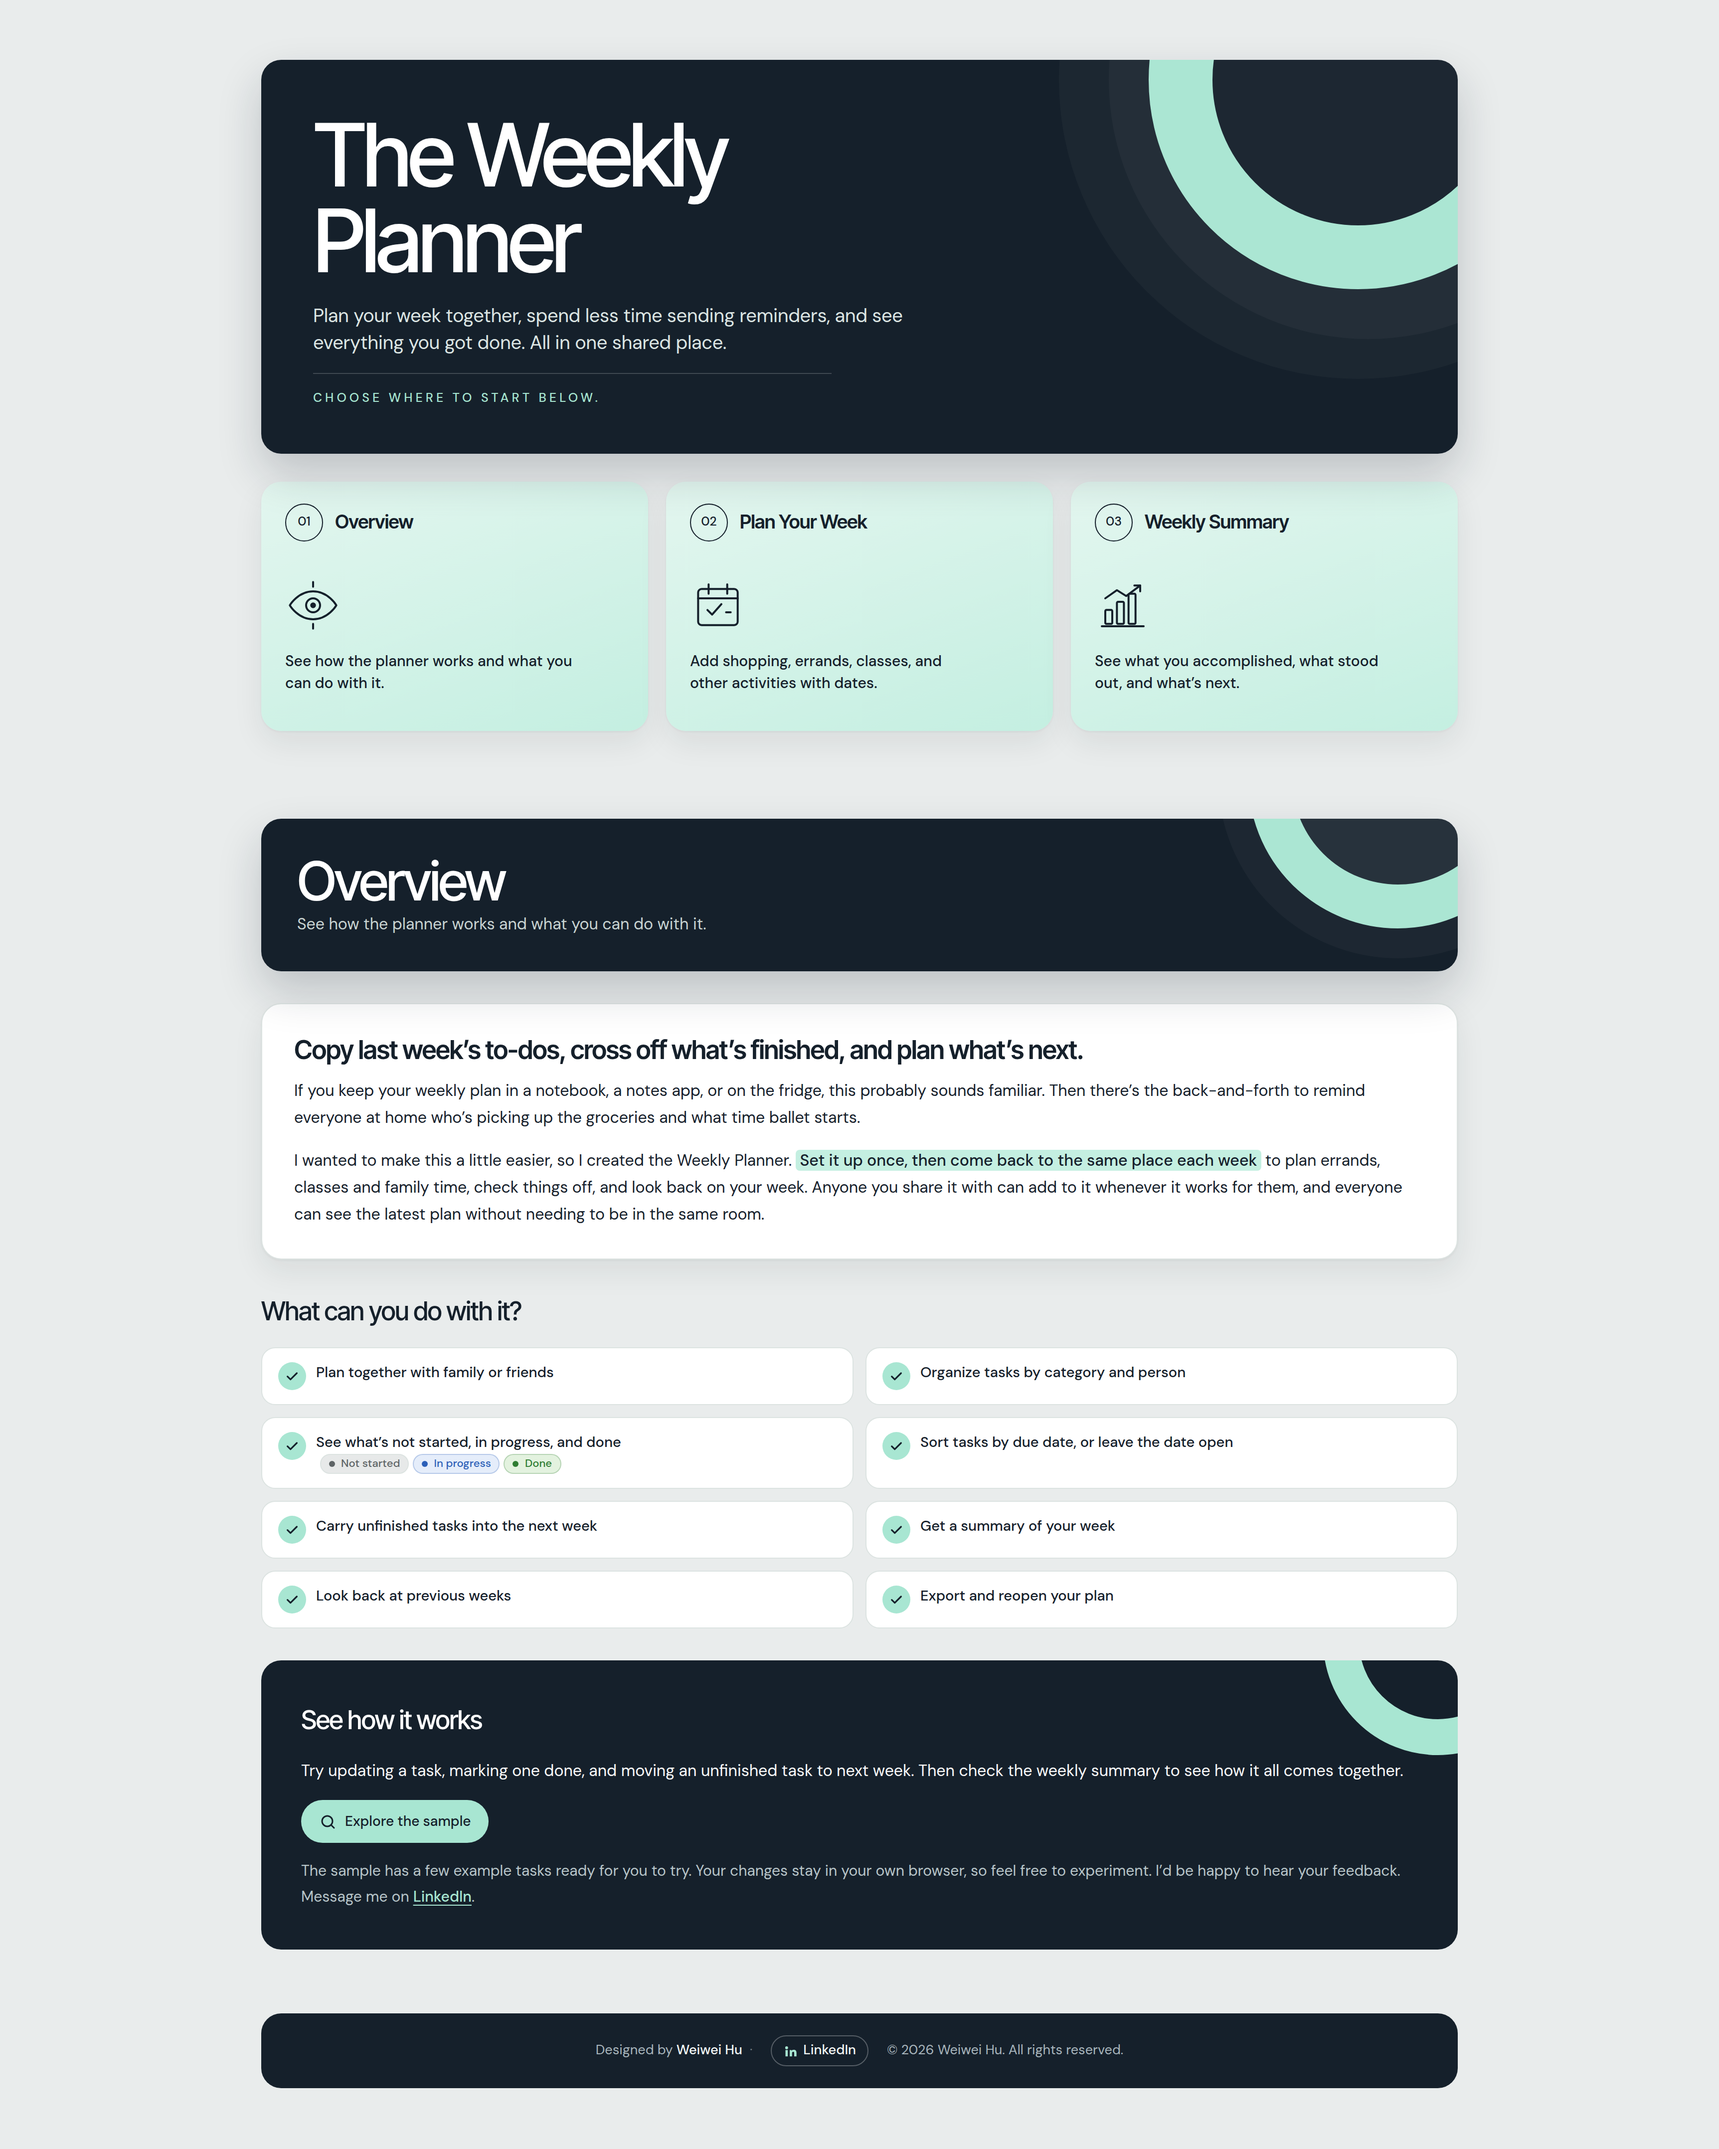
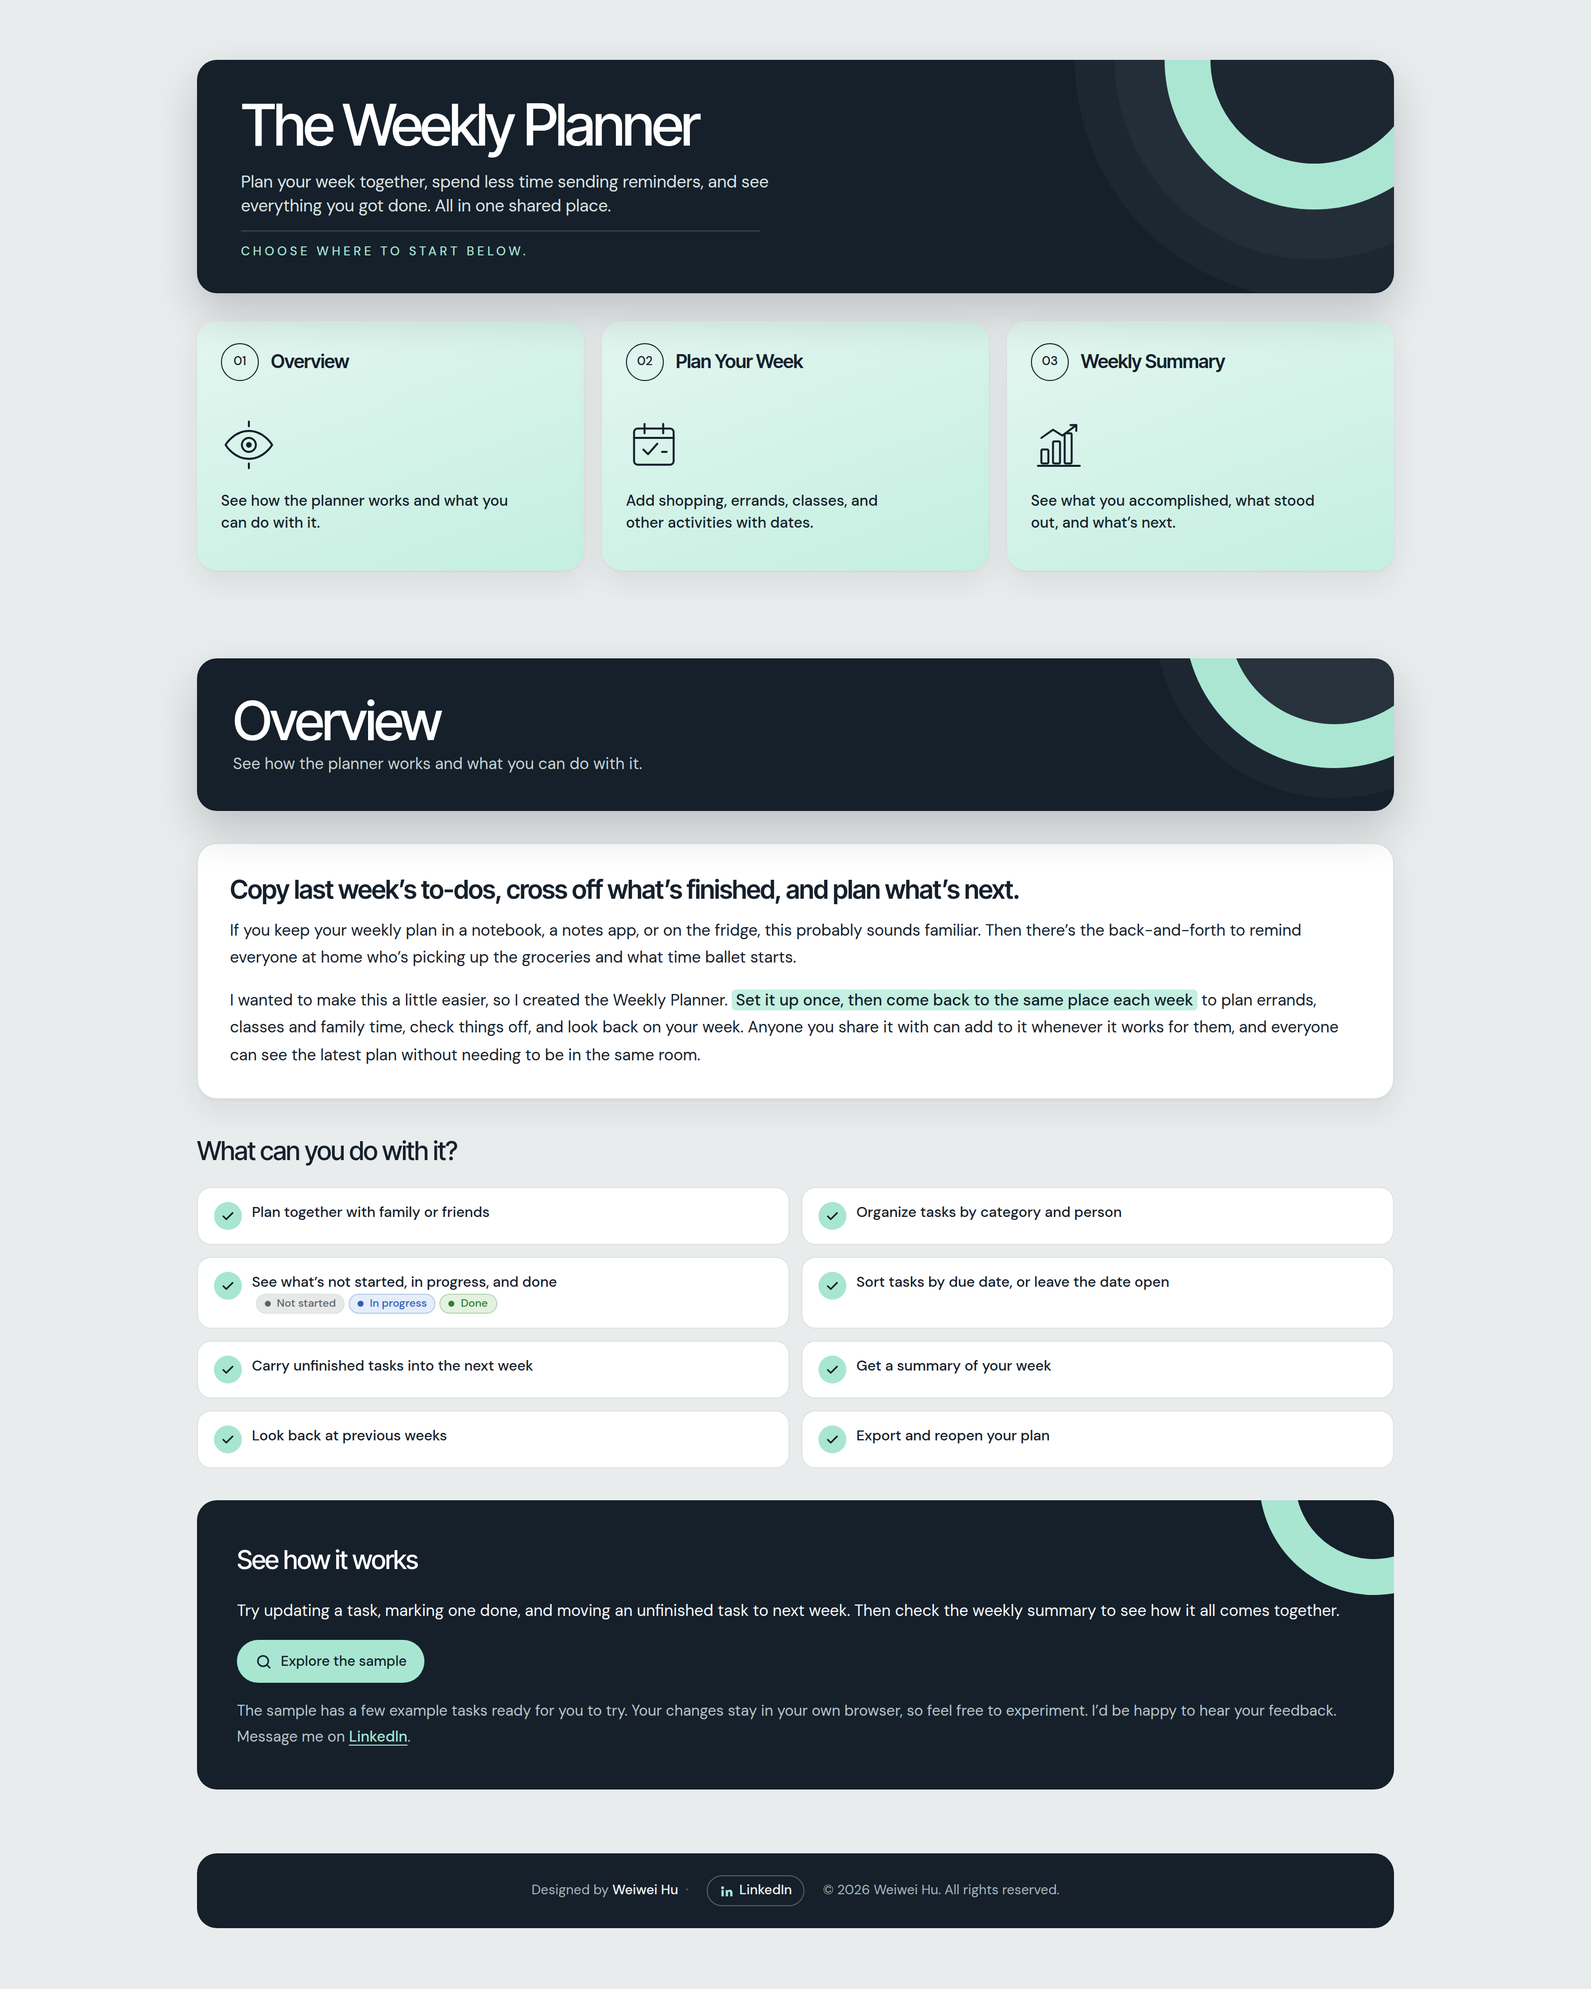
Home: more compact title card
Claude-Session: https://claude.ai/code/session_01VDgZDGuyWY1t5kV3qQKL2N

Changed region(s): [[0.1241, 0.0311, 0.9, 0.995]]

diff --git a/planner/dist/weekly-planner-sample.html b/planner/dist/weekly-planner-sample.html
@@ -1507,6 +1507,15 @@ th, .ts-table th, .panel th, .panel .ts-table th { background: var(--mint-soft);
 #homeView .navtile:hover, #homeView .navtile:focus-visible { background: var(--navy-900); }
 #homeView .navtile:hover .nt-head, #homeView .navtile:hover .nt-desc, #homeView .navtile:focus-visible .nt-head, #homeView .navtile:focus-visible .nt-desc { color: #fff; }
 #homeView .navtile:hover .nt-body svg, #homeView .navtile:focus-visible .nt-body svg { color: var(--mint); }
+
+/* Home title card: more compact */
+.home-cover { padding: 36px 44px 32px; gap: 12px; }
+.home-cover h1, .home-cover .h-bold { font-size: clamp(34px, 4.8vw, 58px); max-width: none; line-height: 1.02; }
+.home-cover .home-value { font-size: clamp(15px, 1.5vw, 17px); }
+.home-cover .home-by { padding-top: 10px; }
+.home-cover::before { width: 300px; height: 300px; right: -70px; top: -150px; border-width: 46px; }
+.home-cover::after { width: 400px; height: 400px; right: -120px; top: -200px; }
+@media (max-width: 640px) { .home-cover { padding: 28px 22px 24px; } .home-cover::before { width: 150px; height: 150px; right: -75px; top: -85px; border-width: 24px; } }
 </style>
 
 <div class="wrap">

diff --git a/planner/dist/weekly-planner.html b/planner/dist/weekly-planner.html
@@ -1507,6 +1507,15 @@ th, .ts-table th, .panel th, .panel .ts-table th { background: var(--mint-soft);
 #homeView .navtile:hover, #homeView .navtile:focus-visible { background: var(--navy-900); }
 #homeView .navtile:hover .nt-head, #homeView .navtile:hover .nt-desc, #homeView .navtile:focus-visible .nt-head, #homeView .navtile:focus-visible .nt-desc { color: #fff; }
 #homeView .navtile:hover .nt-body svg, #homeView .navtile:focus-visible .nt-body svg { color: var(--mint); }
+
+/* Home title card: more compact */
+.home-cover { padding: 36px 44px 32px; gap: 12px; }
+.home-cover h1, .home-cover .h-bold { font-size: clamp(34px, 4.8vw, 58px); max-width: none; line-height: 1.02; }
+.home-cover .home-value { font-size: clamp(15px, 1.5vw, 17px); }
+.home-cover .home-by { padding-top: 10px; }
+.home-cover::before { width: 300px; height: 300px; right: -70px; top: -150px; border-width: 46px; }
+.home-cover::after { width: 400px; height: 400px; right: -120px; top: -200px; }
+@media (max-width: 640px) { .home-cover { padding: 28px 22px 24px; } .home-cover::before { width: 150px; height: 150px; right: -75px; top: -85px; border-width: 24px; } }
 </style>
 
 <div class="wrap">

diff --git a/planner/sample-index.html b/planner/sample-index.html
@@ -1526,6 +1526,15 @@ th, .ts-table th, .panel th, .panel .ts-table th { background: var(--mint-soft);
 #homeView .navtile:hover, #homeView .navtile:focus-visible { background: var(--navy-900); }
 #homeView .navtile:hover .nt-head, #homeView .navtile:hover .nt-desc, #homeView .navtile:focus-visible .nt-head, #homeView .navtile:focus-visible .nt-desc { color: #fff; }
 #homeView .navtile:hover .nt-body svg, #homeView .navtile:focus-visible .nt-body svg { color: var(--mint); }
+
+/* Home title card: more compact */
+.home-cover { padding: 36px 44px 32px; gap: 12px; }
+.home-cover h1, .home-cover .h-bold { font-size: clamp(34px, 4.8vw, 58px); max-width: none; line-height: 1.02; }
+.home-cover .home-value { font-size: clamp(15px, 1.5vw, 17px); }
+.home-cover .home-by { padding-top: 10px; }
+.home-cover::before { width: 300px; height: 300px; right: -70px; top: -150px; border-width: 46px; }
+.home-cover::after { width: 400px; height: 400px; right: -120px; top: -200px; }
+@media (max-width: 640px) { .home-cover { padding: 28px 22px 24px; } .home-cover::before { width: 150px; height: 150px; right: -75px; top: -85px; border-width: 24px; } }
 </style>
 
 <div class="wrap">

diff --git a/planner/sample.html b/planner/sample.html
@@ -1519,6 +1519,15 @@ th, .ts-table th, .panel th, .panel .ts-table th { background: var(--mint-soft);
 #homeView .navtile:hover, #homeView .navtile:focus-visible { background: var(--navy-900); }
 #homeView .navtile:hover .nt-head, #homeView .navtile:hover .nt-desc, #homeView .navtile:focus-visible .nt-head, #homeView .navtile:focus-visible .nt-desc { color: #fff; }
 #homeView .navtile:hover .nt-body svg, #homeView .navtile:focus-visible .nt-body svg { color: var(--mint); }
+
+/* Home title card: more compact */
+.home-cover { padding: 36px 44px 32px; gap: 12px; }
+.home-cover h1, .home-cover .h-bold { font-size: clamp(34px, 4.8vw, 58px); max-width: none; line-height: 1.02; }
+.home-cover .home-value { font-size: clamp(15px, 1.5vw, 17px); }
+.home-cover .home-by { padding-top: 10px; }
+.home-cover::before { width: 300px; height: 300px; right: -70px; top: -150px; border-width: 46px; }
+.home-cover::after { width: 400px; height: 400px; right: -120px; top: -200px; }
+@media (max-width: 640px) { .home-cover { padding: 28px 22px 24px; } .home-cover::before { width: 150px; height: 150px; right: -75px; top: -85px; border-width: 24px; } }
 </style>
 
 <div class="wrap">

diff --git a/planner/team-index.html b/planner/team-index.html
@@ -1525,6 +1525,15 @@ th, .ts-table th, .panel th, .panel .ts-table th { background: var(--mint-soft);
 #homeView .navtile:hover, #homeView .navtile:focus-visible { background: var(--navy-900); }
 #homeView .navtile:hover .nt-head, #homeView .navtile:hover .nt-desc, #homeView .navtile:focus-visible .nt-head, #homeView .navtile:focus-visible .nt-desc { color: #fff; }
 #homeView .navtile:hover .nt-body svg, #homeView .navtile:focus-visible .nt-body svg { color: var(--mint); }
+
+/* Home title card: more compact */
+.home-cover { padding: 36px 44px 32px; gap: 12px; }
+.home-cover h1, .home-cover .h-bold { font-size: clamp(34px, 4.8vw, 58px); max-width: none; line-height: 1.02; }
+.home-cover .home-value { font-size: clamp(15px, 1.5vw, 17px); }
+.home-cover .home-by { padding-top: 10px; }
+.home-cover::before { width: 300px; height: 300px; right: -70px; top: -150px; border-width: 46px; }
+.home-cover::after { width: 400px; height: 400px; right: -120px; top: -200px; }
+@media (max-width: 640px) { .home-cover { padding: 28px 22px 24px; } .home-cover::before { width: 150px; height: 150px; right: -75px; top: -85px; border-width: 24px; } }
 </style>
 
 <div class="wrap">

diff --git a/planner/team.html b/planner/team.html
@@ -1518,6 +1518,15 @@ th, .ts-table th, .panel th, .panel .ts-table th { background: var(--mint-soft);
 #homeView .navtile:hover, #homeView .navtile:focus-visible { background: var(--navy-900); }
 #homeView .navtile:hover .nt-head, #homeView .navtile:hover .nt-desc, #homeView .navtile:focus-visible .nt-head, #homeView .navtile:focus-visible .nt-desc { color: #fff; }
 #homeView .navtile:hover .nt-body svg, #homeView .navtile:focus-visible .nt-body svg { color: var(--mint); }
+
+/* Home title card: more compact */
+.home-cover { padding: 36px 44px 32px; gap: 12px; }
+.home-cover h1, .home-cover .h-bold { font-size: clamp(34px, 4.8vw, 58px); max-width: none; line-height: 1.02; }
+.home-cover .home-value { font-size: clamp(15px, 1.5vw, 17px); }
+.home-cover .home-by { padding-top: 10px; }
+.home-cover::before { width: 300px; height: 300px; right: -70px; top: -150px; border-width: 46px; }
+.home-cover::after { width: 400px; height: 400px; right: -120px; top: -200px; }
+@media (max-width: 640px) { .home-cover { padding: 28px 22px 24px; } .home-cover::before { width: 150px; height: 150px; right: -75px; top: -85px; border-width: 24px; } }
 </style>
 
 <div class="wrap">
